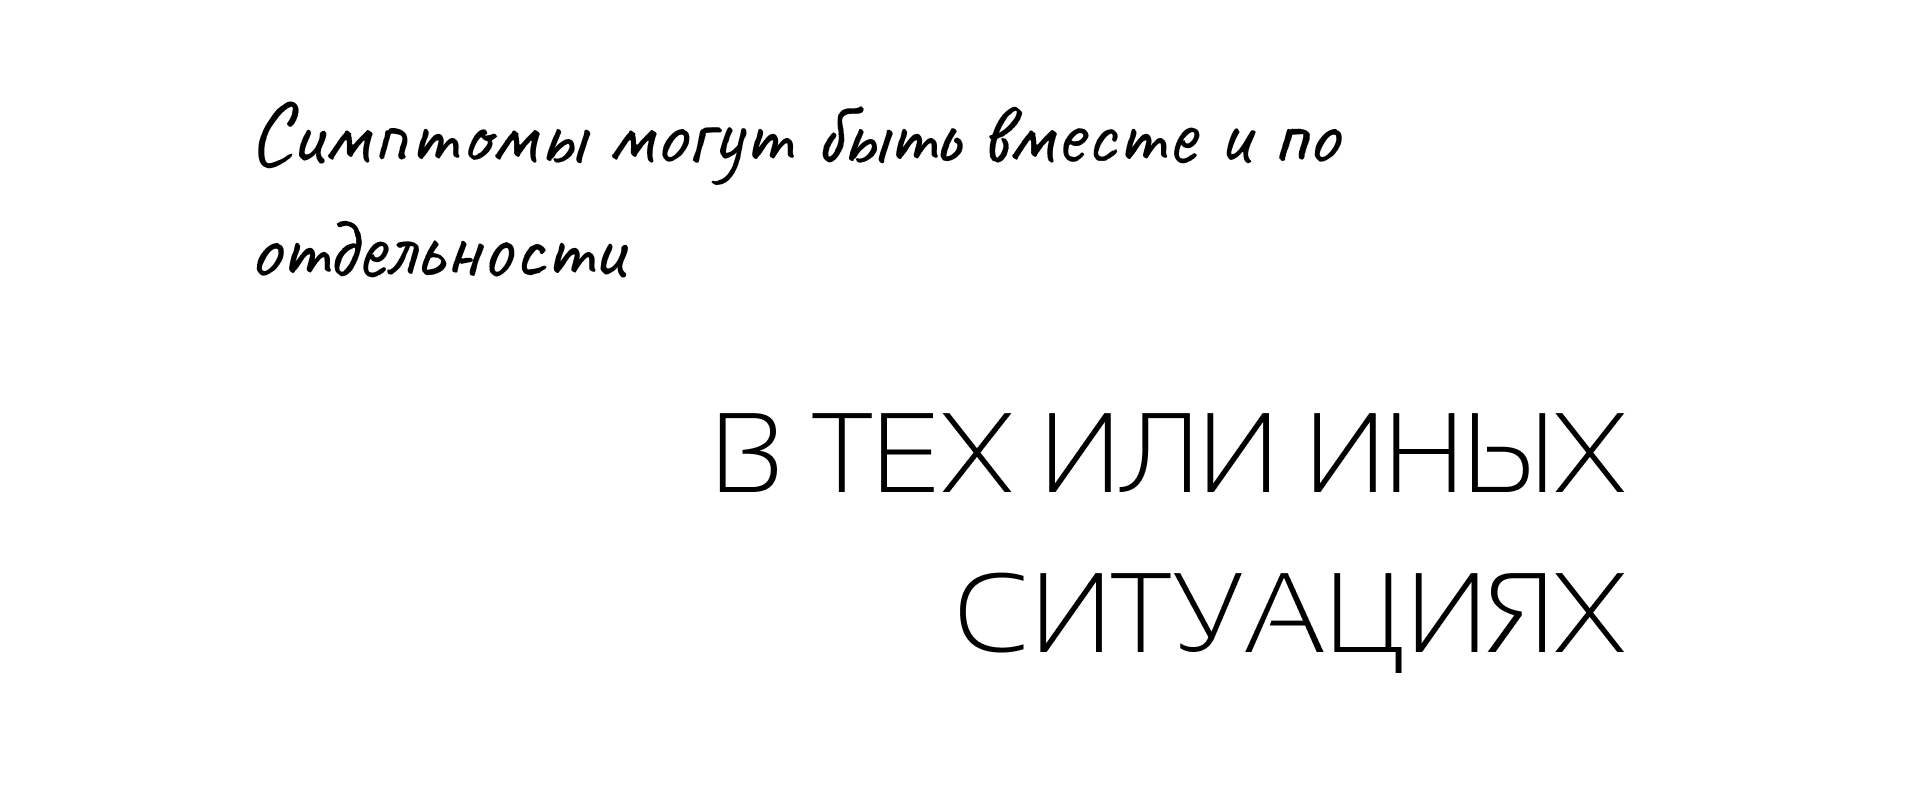
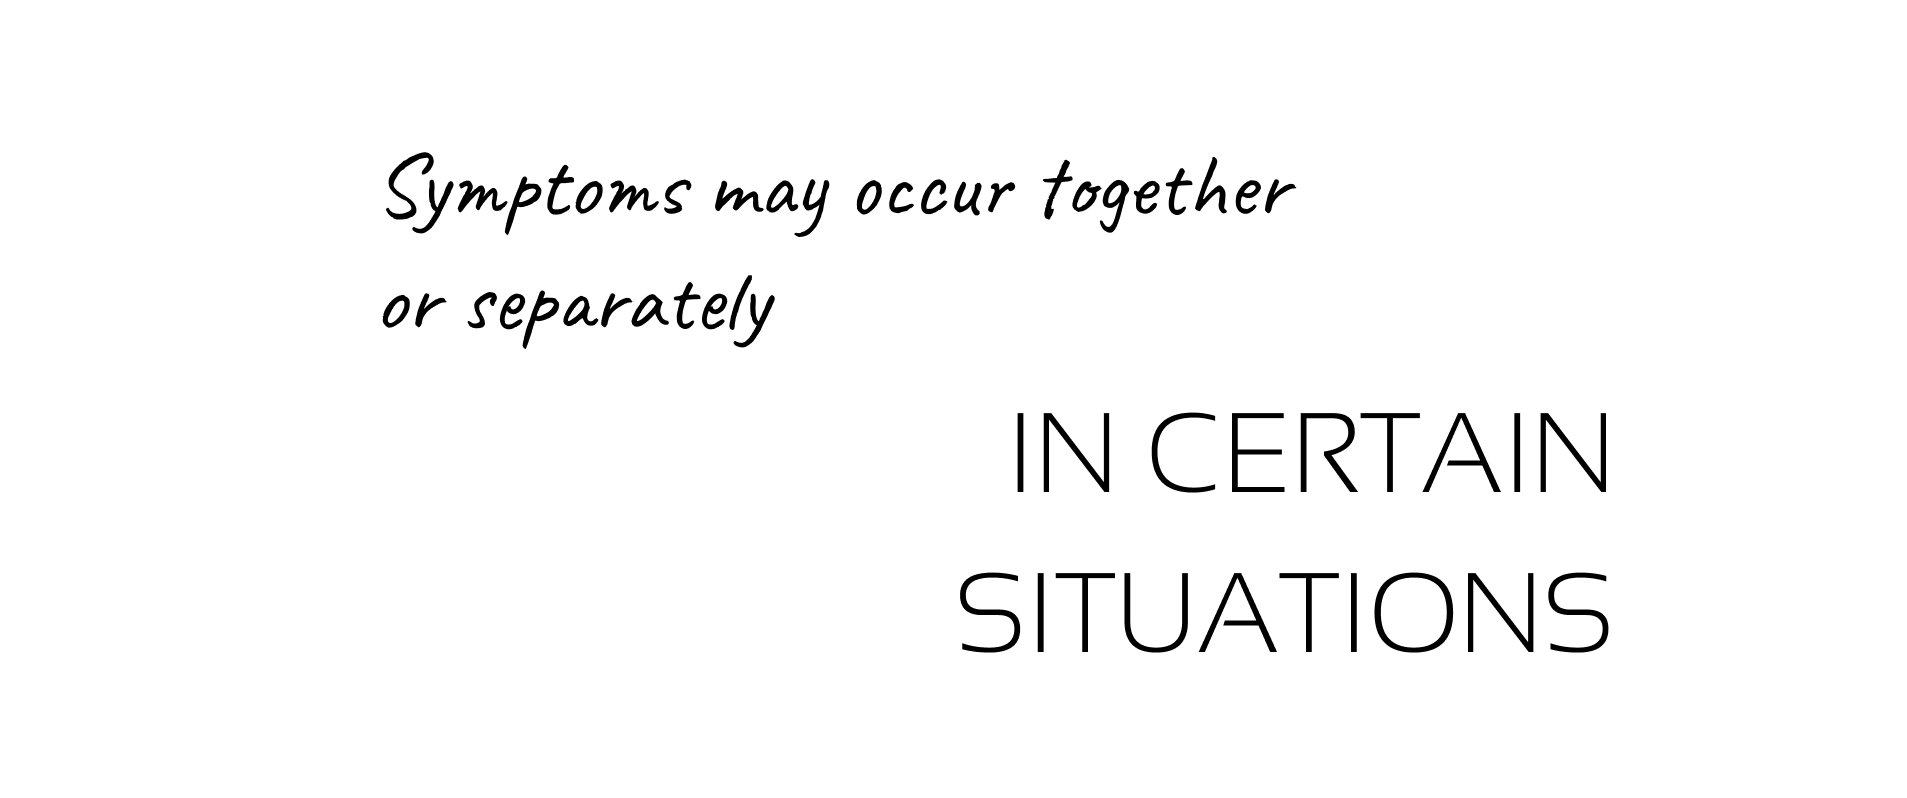
Update img translation

Changed region(s): [[0.1238, 0.1203, 0.7116, 0.4211], [0.3713, 0.5113, 0.8663, 0.6316], [0.495, 0.7218, 0.8663, 0.8421]]

diff --git a/index.html b/index.html
@@ -1,7 +1,7 @@
 <!DOCTYPE html>
 <html lang="ru">
     <head>
-        <title data-i18n-key="site-title">Невроз клининг</title>
+        <title data-i18n-key="site-title"></title>
         <link rel="stylesheet" href="styles/style.css">
         
         <link rel="preconnect" href="https://fonts.googleapis.com">
@@ -42,7 +42,7 @@
                 </div>
                 <div class="row empty-row"></div>                
                 <div class="row">
-                    <img class="img-full" src="imgs/en/3_go_left_go_right.png">
+                    <img class="img-full lazy" src="imgs/en/3_go_left_go_right.png" data-src="imgs/en/3_go_left_go_right.png">
                 </div>
                 <div class="row empty-row"></div>                
                 <div class="row">
